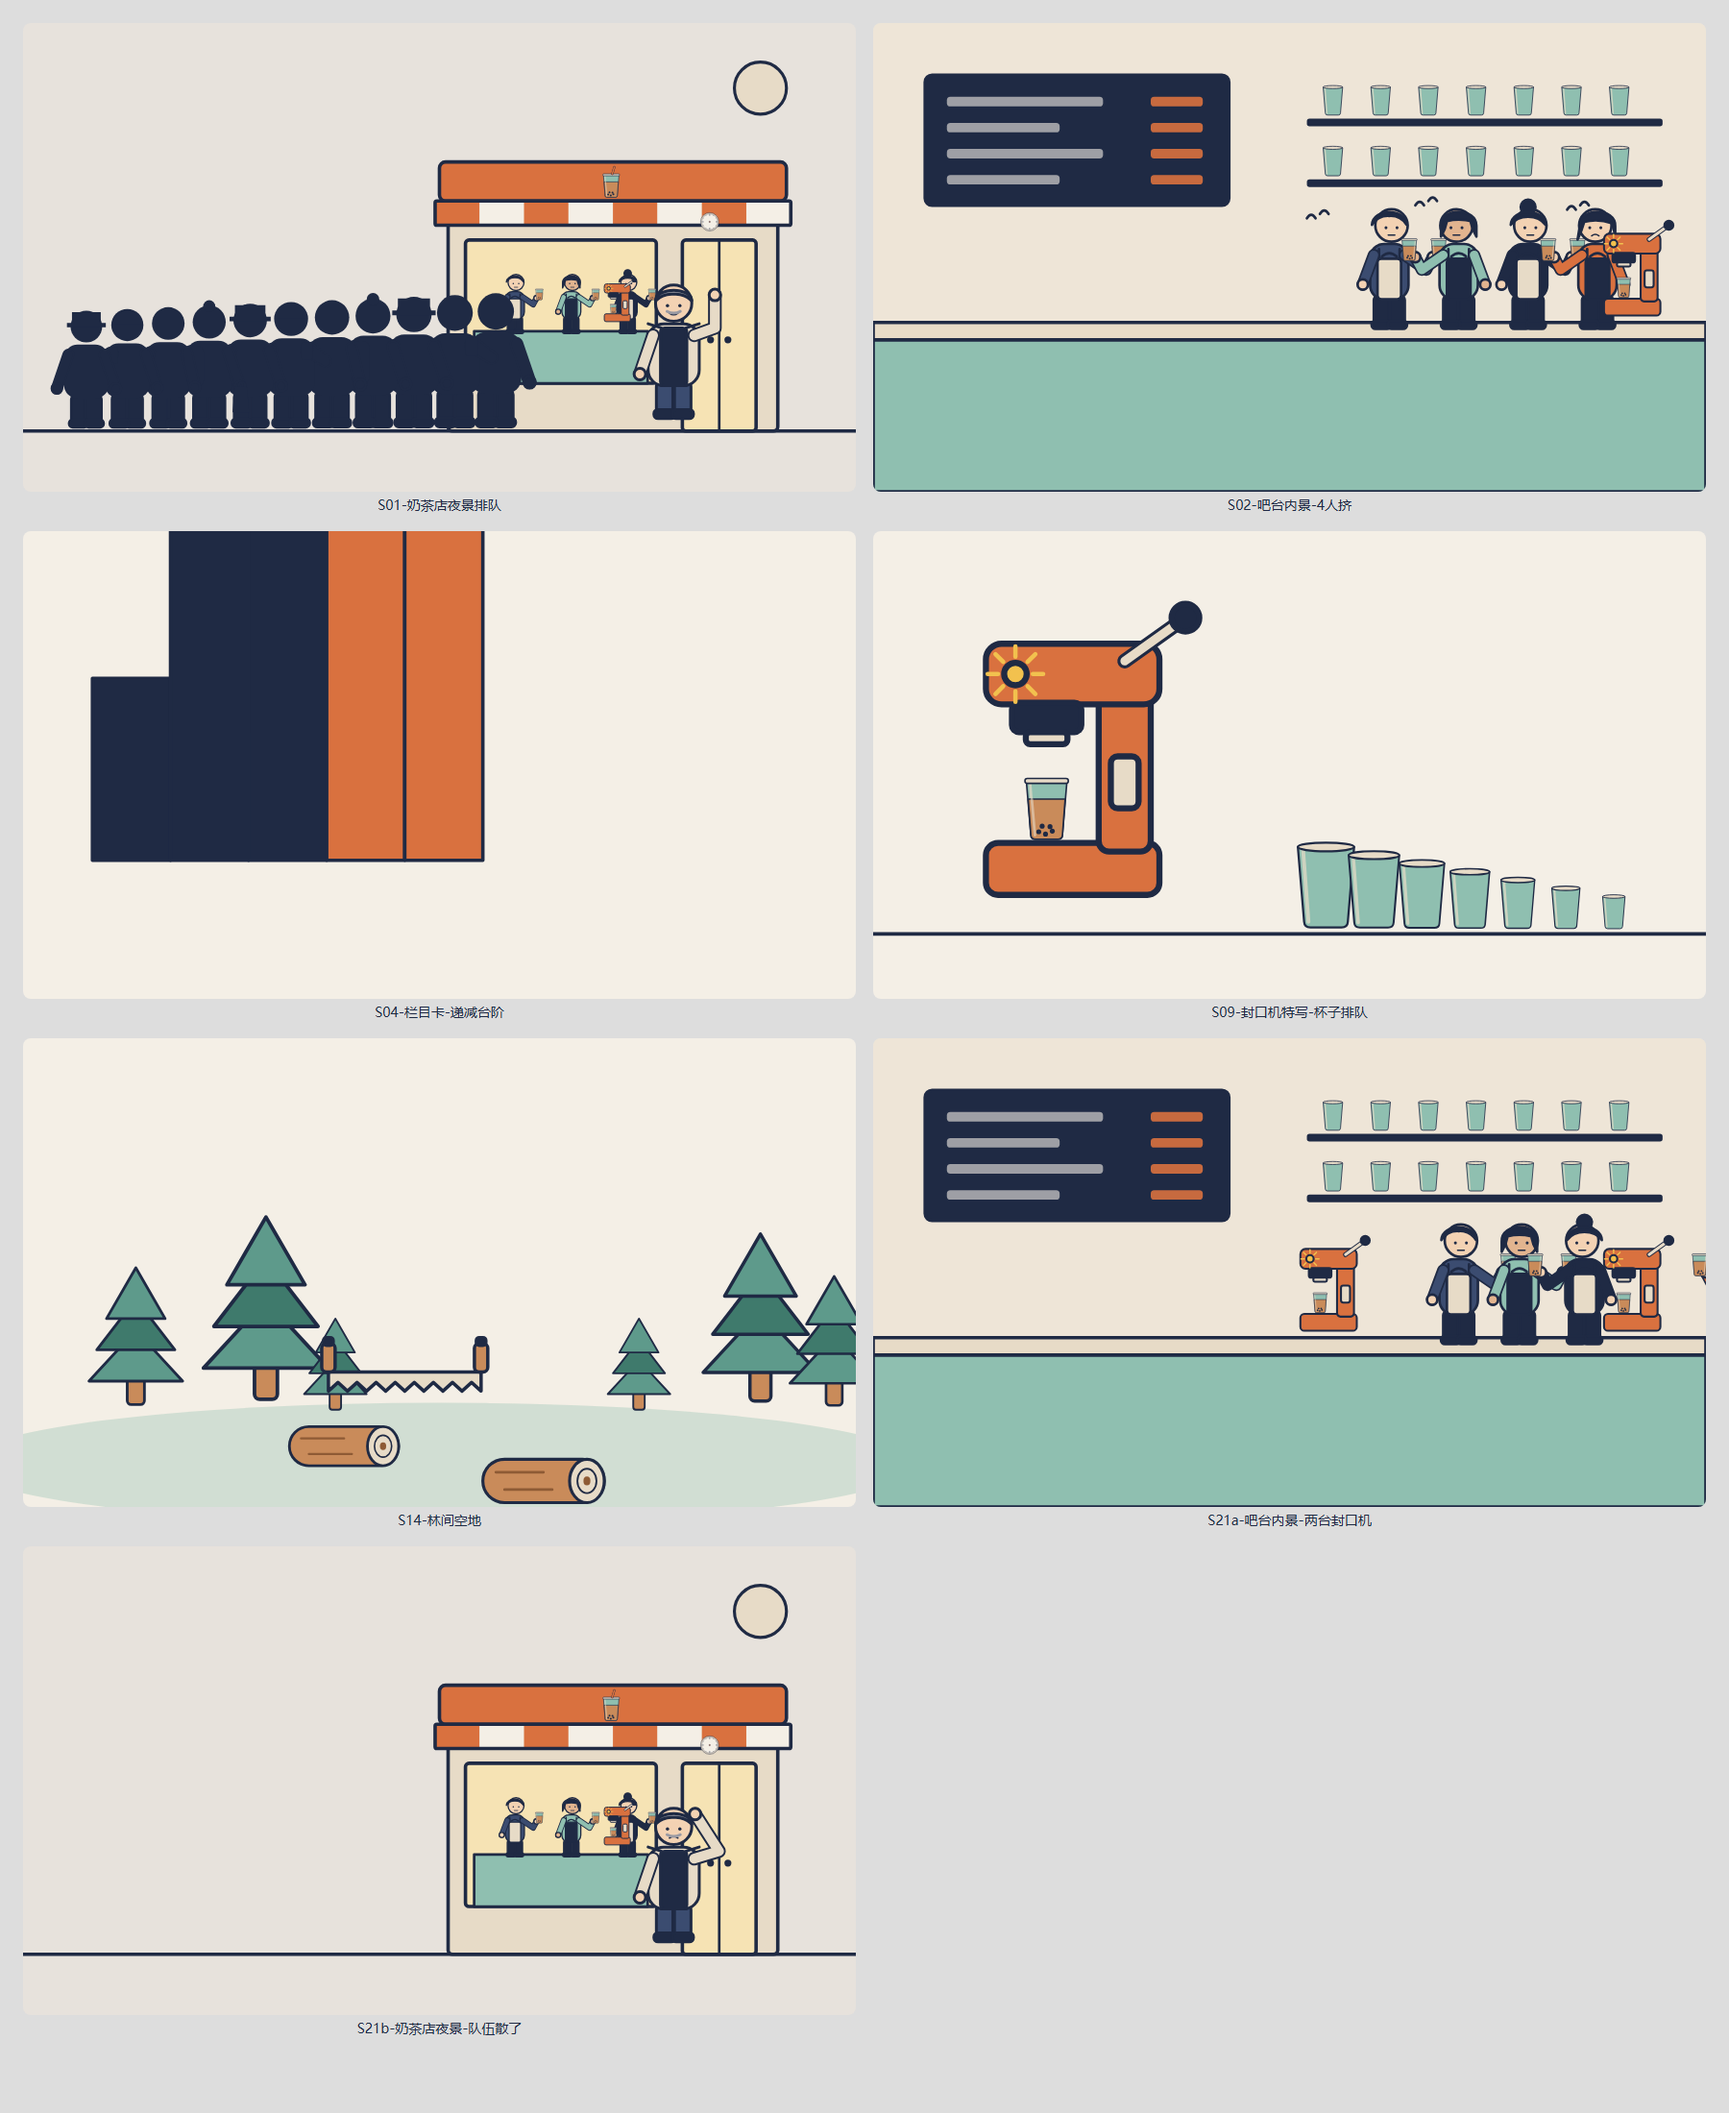
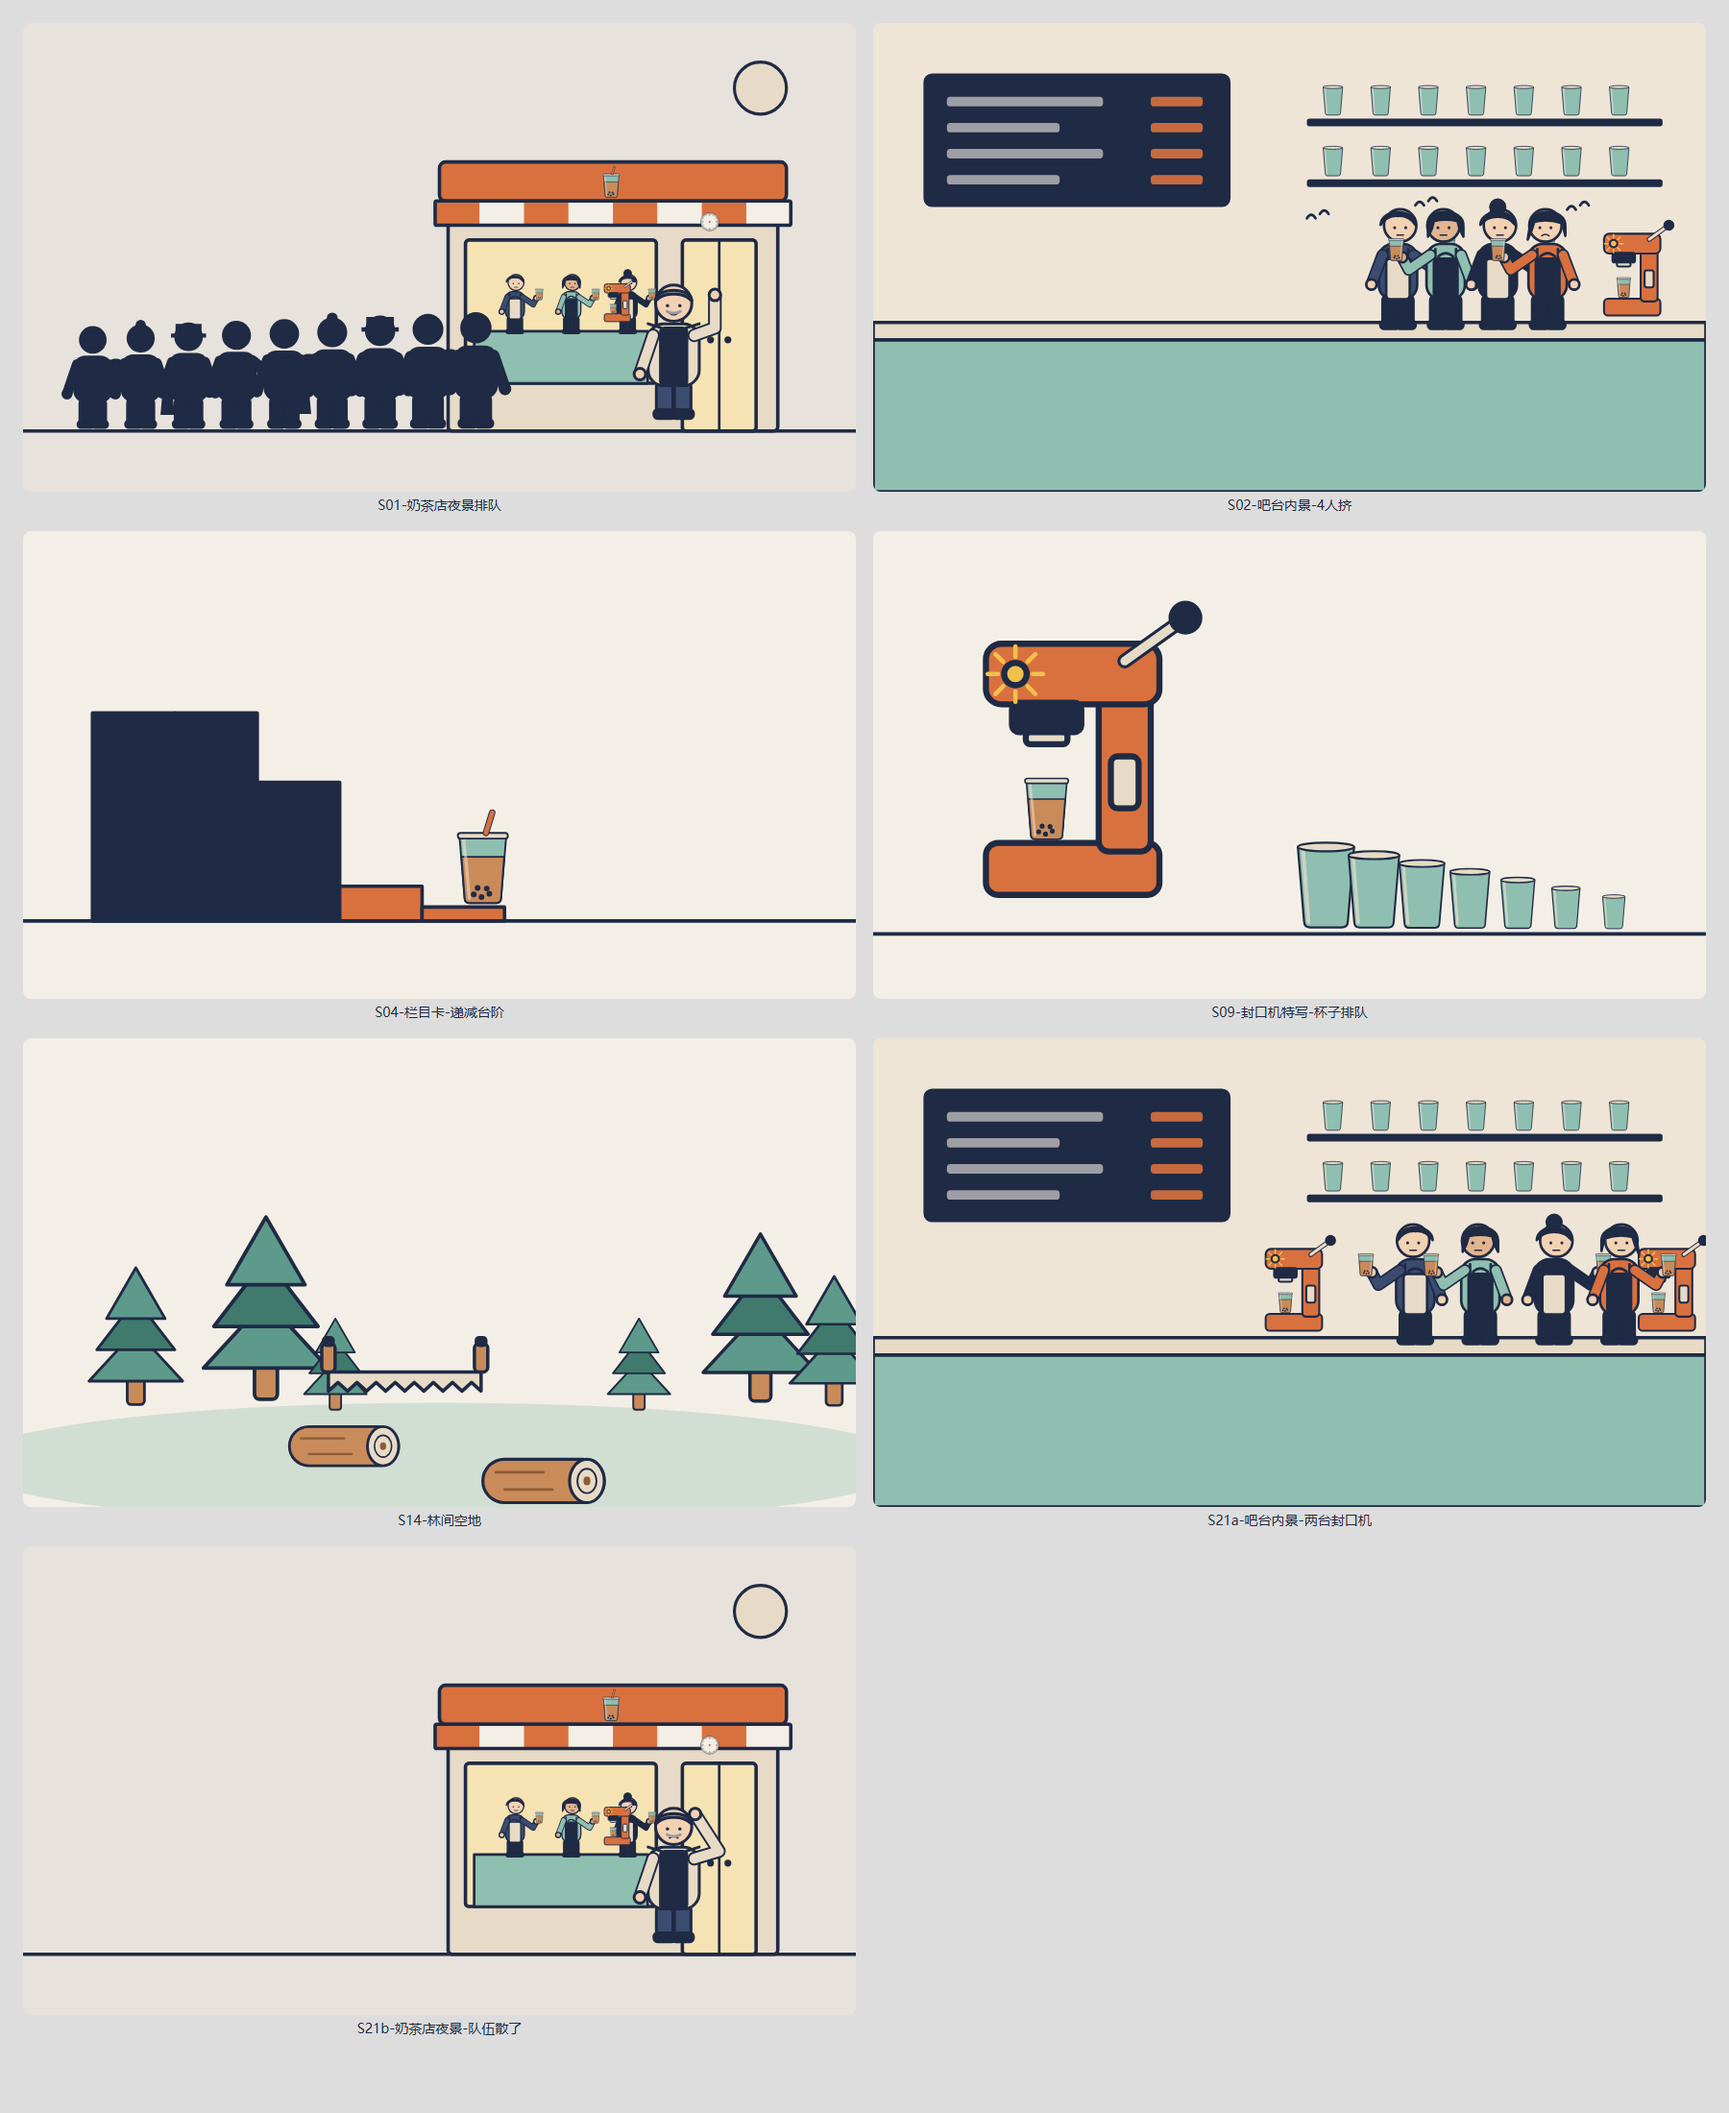
vault backup: 2026-10-08 21:38:25

diff --git a/工具/video-render/assets/ep6/_work/scenes.py b/工具/video-render/assets/ep6/_work/scenes.py
@@ -62,9 +62,9 @@ def shop_front(night=True, queue=True, boss_pose='wave'):
     # 队伍
     if queue:
         kinds = ['backpack', 'phone', 'hat', 'bag']
-        for i in range(11):
-            x = 900 - i * 92
-            s = 0.95 - i * 0.012
+        for i in range(9):
+            x = 880 - i * 108
+            s = 0.82 - i * 0.012
             b += place(C.silhouette(kinds[i % 4]), x, 940 - 380 * s, s, flip=(i % 3 == 0))
     return b
 
@@ -92,7 +92,7 @@ def counter_inside(crowded=True, two_sealers=False):
     b += f'<rect x="0" y="690" width="{W}" height="40" fill="{C.TAN}" {C.st(8)}/>'
     # 人与机器
     if crowded:
-        xs = [1020, 1180, 1340, 1500]
+        xs = [1040, 1150, 1270, 1385]
         for i, (n, shirt, apron, hair, hc, skin) in enumerate(C.STAFF[:4]):
             b += place(C.staff_busy(shirt, apron, hair, hc, skin, 'flat' if n != 4 else 'hmm'), xs[i], 390, 0.85, flip=(i % 2 == 1))
         b += place(C.sealer(True), 1620, 440, 0.65)
@@ -100,12 +100,11 @@ def counter_inside(crowded=True, two_sealers=False):
         for (x, y) in [(1000, 450), (1250, 420), (1600, 430)]:
             b += f'<path d="M{x} {y} q10 -16 20 0 M{x+30} {y-10} q10 -16 20 0" {C.st(6)}/>'
     else:
-        b += place(C.sealer(True), 920, 440, 0.65)
-        b += place(C.sealer(True), 1620, 440, 0.65)
+        b += place(C.sealer(True), 840, 440, 0.65)
+        b += place(C.sealer(True), 1700, 440, 0.65)
         for i, (n, shirt, apron, hair, hc, skin) in enumerate(C.STAFF[:4]):
-            x = [1160, 1300, 1460, 1800][i] if i < 3 else 1480
-            x = [1180, 1320, 1470, 1850][i]
-            b += place(C.staff_busy(shirt, apron, hair, hc, skin), x, 390, 0.85, flip=(i >= 2))
+            x = [1080, 1230, 1400, 1550][i]
+            b += place(C.staff_busy(shirt, apron, hair, hc, skin), x, 390, 0.85, flip=(i < 2))
     return b
 
 
@@ -145,13 +144,14 @@ def steps_cover():
     """S04 栏目卡：递减台阶 + 奶茶杯"""
     b = ''
     hs = [30, 30, 20, 5, 2]
-    x = 160; base = 760; unit = 14
+    x = 160; base = 900; unit = 16
     tops = []
     for i, h in enumerate(hs):
-        cum = sum(hs[:i+1]) * unit
-        b += f'<rect x="{x + i*180}" y="{base - cum}" width="180" height="{cum}" fill="{C.NAVY if i<3 else C.ORANGE}" {C.st(8)}/>'
-        tops.append(base - cum)
-    b += place(C.cup('straw'), x + 4*180 + 10, tops[-1] - 240, 0.6)
+        hh = h * unit
+        b += f'<rect x="{x + i*190}" y="{base - hh}" width="190" height="{hh}" fill="{C.NAVY if i<3 else C.ORANGE}" {C.st(8)}/>'
+        tops.append(base - hh)
+    b += f'<path d="M0 {base} L{W} {base}" {C.st(8)}/>'
+    b += place(C.cup('straw'), x + 4*190 + 20, tops[-1] - 230, 0.6)
     return b
 
 

diff --git a/工具/video-render/assets/ep6/README.md b/工具/video-render/assets/ep6/README.md
@@ -1,0 +1,13 @@
+# 第 6 期素材库（米白底 / 扁平插画 / 得意黑）
+
+全部由 `_work/gen.py`（元素）和 `_work/scenes.py`（场景）生成，改调色或线宽重跑即可，风格天然一致。
+
+- `fonts/`     得意黑 Smiley Sans v2.0.1（OFL 开源，可商用）
+- `elements/`  47 个透明底 SVG 元素（E01–E14 全部齐）
+- `scenes/`    7 张 1920×1080 场景 SVG（S01 / S02 / S04 / S09 / S14 / S21a / S21b）
+- `_work/`     生成脚本 + preview 截图
+
+预览：`py _work/gen.py && py _work/scenes.py`，然后用 Chrome 打开 `_work/preview.html` / `_work/preview-scenes.html`。
+
+## 还没做的场景图（可用元素继续拼，或用即梦出图替换）
+S03 新人+封口机抢戏 · S07 吧台俯视 · S08 四号等封口 · S10 顾客视角玻璃 · S15 第五人抱树枝 · S17 封口机吃杯子 · S19 新旧机对比 · S20a/b 等人 vs 等机器 · S22 金句氛围图
